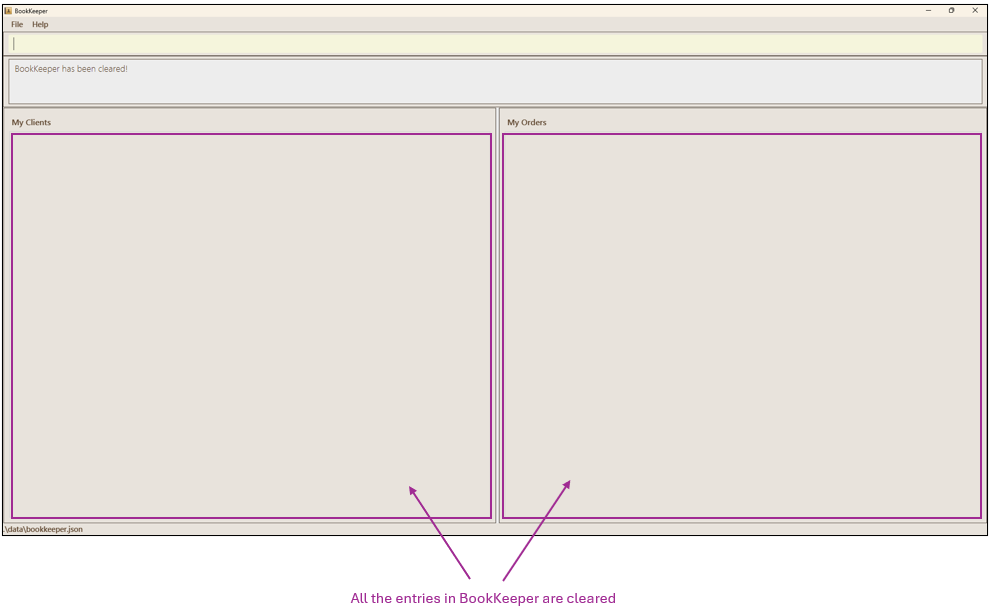
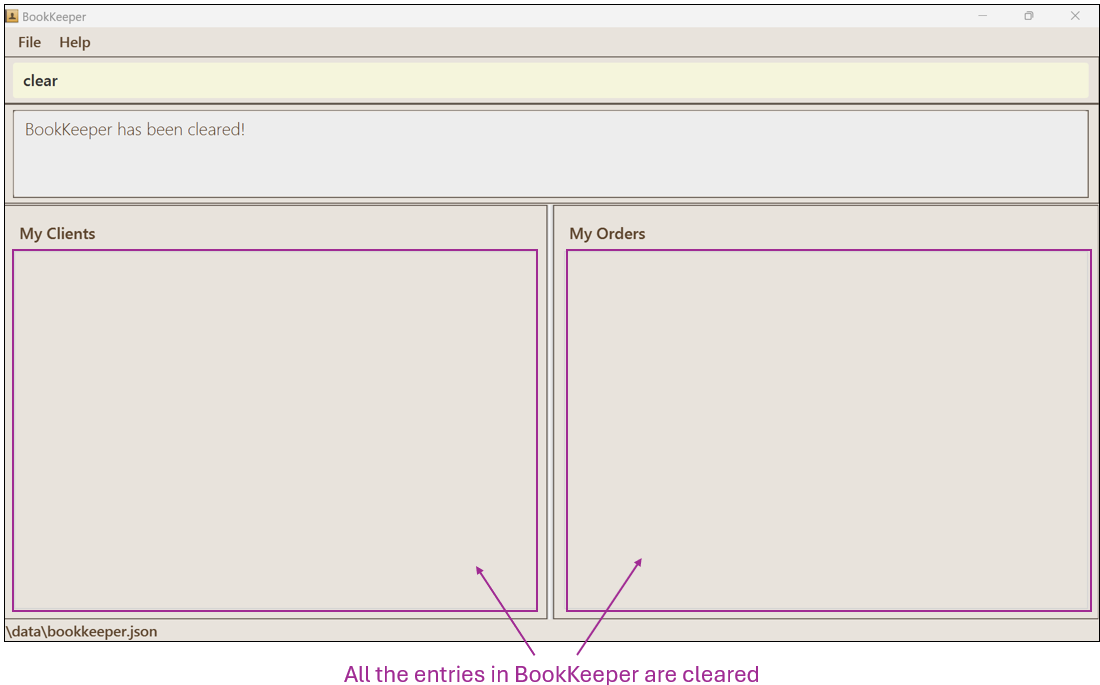
Edit the UI display and changed the diagram in UG

Changed region(s): [[0.0, 0.0, 1.0, 0.9967]]

diff --git a/docs/UserGuide.md b/docs/UserGuide.md
@@ -346,7 +346,8 @@ Example:
 
 * `list` followed by `delete 2` deletes the 2nd client in BookKeeper.
 
-![delete client](images/deleteClient.png)
+![delete client](images/deleteClient_Before.png)
+![delete client](images/deleteClient_After.png)
 
 More examples:
 
